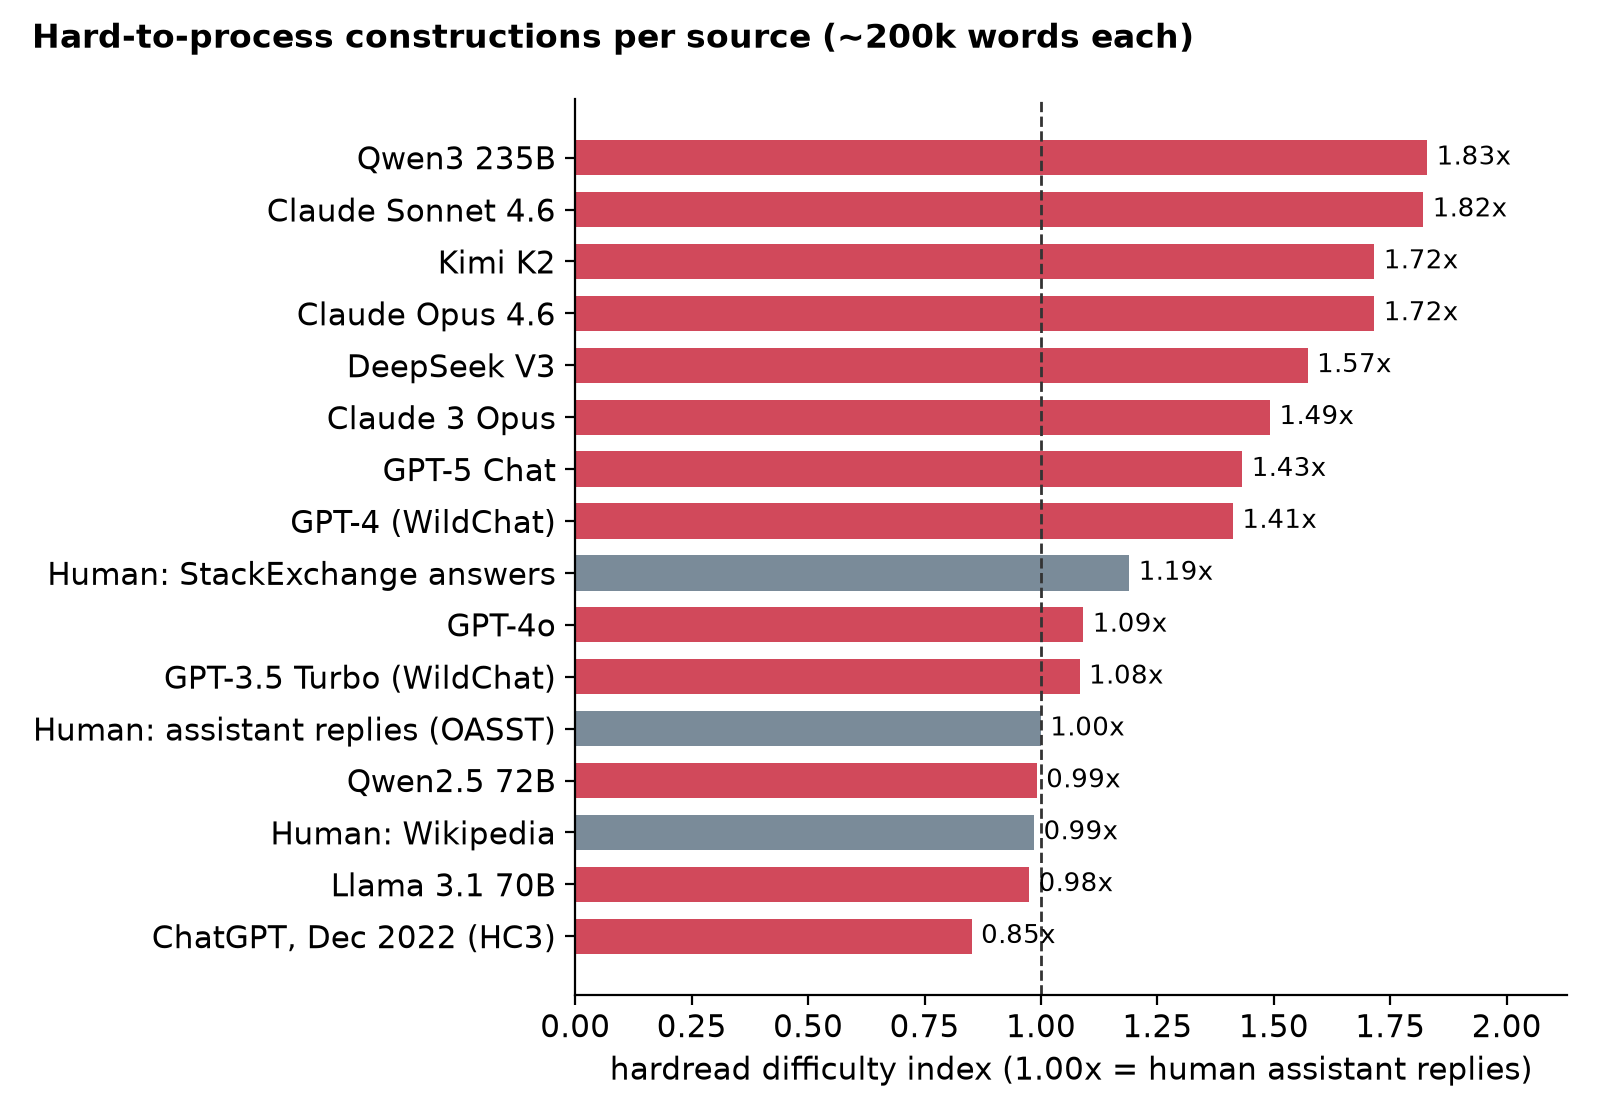
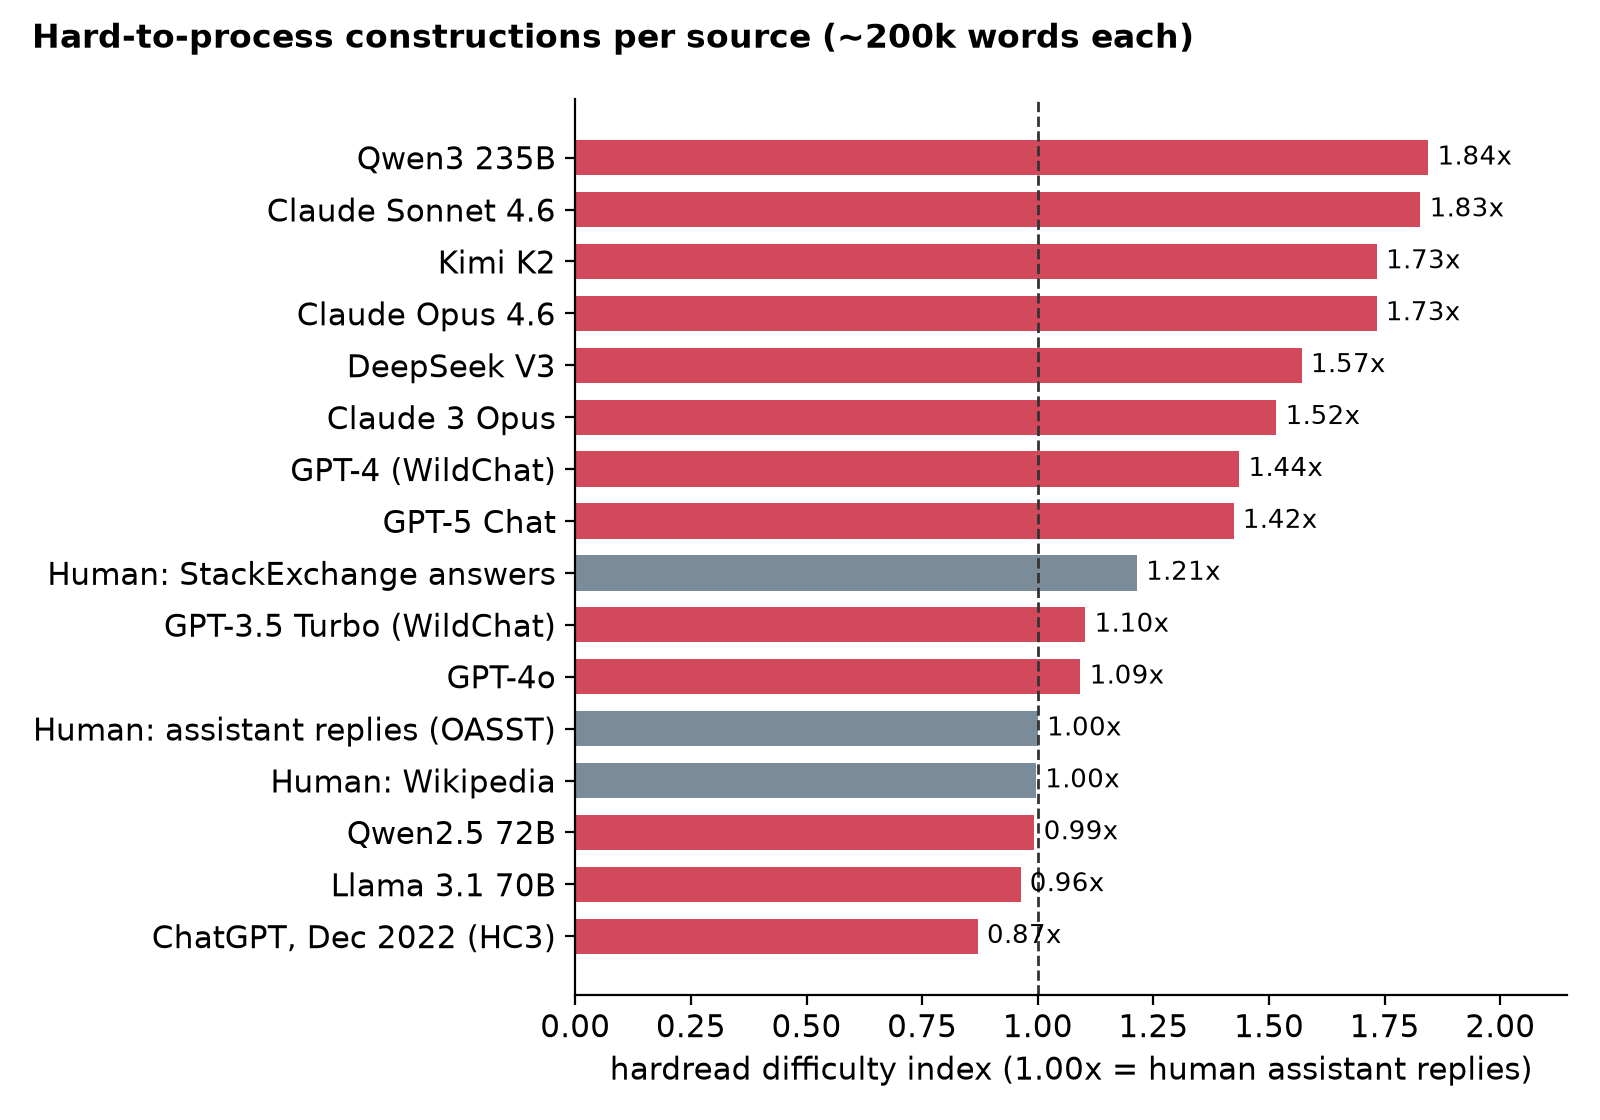
refresh benchmark to v5, patch launch film numbers and example, ignore render artifacts

diff --git a/src/hardread/features.py b/src/hardread/features.py
@@ -27,6 +27,8 @@ ADVERBIAL_HEADS = {"way", "reason", "time", "place", "day", "year", "moment", "e
 # Modifier or argument positions where a -ing/-ed "verb" is really a noun or adjective.
 NOMINAL_DEPS = {"amod", "compound", "nsubj", "nsubjpass", "dobj", "pobj", "nmod", "acomp", "attr", "appos"}
 
+CLAUSAL_DEPS = {"nsubj", "nsubjpass", "csubj", "dobj", "aux", "auxpass", "prt"}
+
 COUNT_FEATURES = ("inanimate_subject", "stacked_nouns", "reduced_orc", "overt_orc", "denominal_verb")
 
 
@@ -132,7 +134,10 @@ def object_relatives(sent: Span, res: Resources):
 
 def denominal_verbs(sent: Span, res: Resources):
     for tok in sent:
-        if tok.pos_ == "VERB" and tok.dep_ not in NOMINAL_DEPS and tok.lemma_.lower() in res.denominal:
+        if tok.pos_ != "VERB" or tok.dep_ in NOMINAL_DEPS or tok.lemma_.lower() not in res.denominal:
+            continue
+        # Nouns mis-tagged as verbs rarely get their own subject, object or auxiliary.
+        if any(c.dep_ in CLAUSAL_DEPS for c in tok.children):
             yield [tok]
 
 

diff --git a/docs/benchmark.md b/docs/benchmark.md
@@ -6,40 +6,40 @@ Each source is about 200k-570k words of English text, scored with `hardread` 0.1
 
 | source | words | index | Inanimate subj. | Unattested pairs | Dep. length | Stacked nouns | ORC, no 'that' | Denominal | ORC with 'that' |
 |---|---:|---:|---:|---:|---:|---:|---:|---:|---:|
-| Qwen3 235B | 205,747 | **1.83x** | 3.04x | 2.68x | 1.04x | 1.27x | 0.63x | 2.32x | 0.25x |
-| Claude Sonnet 4.6 | 218,063 | **1.82x** | 2.06x | 3.28x | 1.01x | 2.12x | 0.67x | 1.78x | 0.73x |
-| Kimi K2 | 193,788 | **1.72x** | 3.24x | 2.29x | 1.10x | 1.17x | 0.76x | 1.73x | 0.44x |
-| Claude Opus 4.6 | 188,813 | **1.72x** | 1.61x | 2.32x | 1.05x | 2.07x | 1.30x | 1.94x | 0.27x |
-| DeepSeek V3 | 195,370 | **1.57x** | 1.72x | 2.65x | 1.04x | 1.36x | 0.48x | 2.20x | 0.16x |
-| Claude 3 Opus | 245,335 | **1.49x** | 2.42x | 1.92x | 1.00x | 0.92x | 0.62x | 2.08x | 0.40x |
-| GPT-5 Chat | 212,098 | **1.43x** | 1.66x | 2.02x | 1.01x | 1.54x | 0.94x | 1.43x | 0.41x |
-| GPT-4 (WildChat) | 231,854 | **1.41x** | 2.10x | 1.88x | 1.00x | 1.15x | 0.80x | 1.54x | 0.75x |
-| Human: HC3 answers (ELI5, finance...) | 368,378 | **1.39x** | 2.48x | 1.30x | 1.04x | 0.73x | 1.56x | 1.21x | 1.31x |
-| Human: fiction (Gutenberg) | 205,414 | **1.38x** | 2.60x | 1.48x | 1.07x | 0.13x | 1.13x | 1.88x | 1.90x |
-| Gemini 2.0 Flash (HC3 Qs) | 256,818 | **1.24x** | 2.75x | 1.09x | 1.01x | 0.65x | 1.30x | 0.65x | 1.42x |
-| Human: StackExchange answers | 305,456 | **1.19x** | 1.60x | 1.39x | 1.05x | 0.57x | 1.22x | 1.32x | 1.56x |
-| Claude essays (Ghostbuster) | 456,986 | **1.13x** | 1.43x | 1.91x | 0.98x | 1.09x | 0.40x | 0.98x | 0.79x |
-| GPT-4o | 233,056 | **1.09x** | 0.90x | 1.60x | 1.01x | 0.98x | 1.01x | 1.04x | 0.28x |
-| GPT-3.5 Turbo (WildChat) | 243,080 | **1.08x** | 1.30x | 1.37x | 1.01x | 0.83x | 0.80x | 1.19x | 0.71x |
+| Qwen3 235B | 205,747 | **1.84x** | 3.04x | 2.68x | 1.04x | 1.27x | 0.63x | 2.41x | 0.25x |
+| Claude Sonnet 4.6 | 218,063 | **1.83x** | 2.06x | 3.28x | 1.01x | 2.12x | 0.67x | 1.82x | 0.73x |
+| Kimi K2 | 193,788 | **1.73x** | 3.24x | 2.29x | 1.10x | 1.17x | 0.76x | 1.83x | 0.44x |
+| Claude Opus 4.6 | 188,813 | **1.73x** | 1.61x | 2.32x | 1.05x | 2.07x | 1.30x | 2.04x | 0.27x |
+| DeepSeek V3 | 195,370 | **1.57x** | 1.72x | 2.65x | 1.04x | 1.36x | 0.48x | 2.18x | 0.16x |
+| Claude 3 Opus | 245,335 | **1.52x** | 2.42x | 1.92x | 1.00x | 0.92x | 0.62x | 2.22x | 0.40x |
+| GPT-4 (WildChat) | 231,854 | **1.44x** | 2.10x | 1.88x | 1.00x | 1.15x | 0.80x | 1.68x | 0.75x |
+| Human: HC3 answers (ELI5, finance...) | 368,378 | **1.43x** | 2.48x | 1.30x | 1.04x | 0.73x | 1.56x | 1.44x | 1.31x |
+| GPT-5 Chat | 212,098 | **1.42x** | 1.66x | 2.02x | 1.01x | 1.54x | 0.94x | 1.37x | 0.41x |
+| Human: fiction (Gutenberg) | 205,414 | **1.42x** | 2.60x | 1.48x | 1.07x | 0.13x | 1.13x | 2.11x | 1.90x |
+| Gemini 2.0 Flash (HC3 Qs) | 256,818 | **1.27x** | 2.75x | 1.09x | 1.01x | 0.65x | 1.30x | 0.80x | 1.42x |
+| Human: StackExchange answers | 305,456 | **1.21x** | 1.60x | 1.39x | 1.05x | 0.57x | 1.22x | 1.47x | 1.56x |
+| Claude essays (Ghostbuster) | 456,986 | **1.14x** | 1.43x | 1.91x | 0.98x | 1.09x | 0.40x | 1.03x | 0.79x |
+| GPT-3.5 Turbo (WildChat) | 243,080 | **1.10x** | 1.30x | 1.37x | 1.01x | 0.83x | 0.80x | 1.31x | 0.71x |
+| GPT-4o | 233,056 | **1.09x** | 0.90x | 1.60x | 1.01x | 0.98x | 1.01x | 1.05x | 0.28x |
+| ChatGPT essays (Ghostbuster) | 571,009 | **1.01x** | 1.33x | 1.33x | 0.97x | 1.25x | 0.45x | 0.71x | 0.58x |
 | Human: assistant replies (OASST) | 288,888 | **1.00x** | 1.00x | 1.00x | 1.00x | 1.00x | 1.00x | 1.00x | 1.00x |
-| ChatGPT essays (Ghostbuster) | 571,009 | **0.99x** | 1.33x | 1.33x | 0.97x | 1.25x | 0.45x | 0.63x | 0.58x |
-| Qwen2.5 72B | 228,423 | **0.99x** | 1.09x | 1.09x | 0.96x | 1.47x | 0.42x | 0.90x | 0.36x |
-| Human: Wikipedia | 304,725 | **0.99x** | 0.77x | 2.00x | 1.01x | 0.94x | 0.28x | 0.92x | 0.75x |
-| Human: essays | 97,686 | **0.98x** | 1.24x | 1.51x | 0.98x | 0.96x | 0.46x | 0.73x | 1.22x |
-| Llama 3.1 70B | 241,730 | **0.98x** | 1.00x | 1.19x | 0.99x | 1.06x | 0.70x | 0.90x | 0.56x |
-| ChatGPT, Dec 2022 (HC3) | 254,102 | **0.85x** | 0.86x | 0.75x | 0.98x | 0.74x | 1.05x | 0.73x | 2.33x |
+| Human: essays | 97,686 | **1.00x** | 1.24x | 1.51x | 0.98x | 0.96x | 0.46x | 0.84x | 1.22x |
+| Human: Wikipedia | 304,725 | **1.00x** | 0.77x | 2.00x | 1.01x | 0.94x | 0.28x | 0.98x | 0.75x |
+| Qwen2.5 72B | 228,423 | **0.99x** | 1.09x | 1.09x | 0.96x | 1.47x | 0.42x | 0.91x | 0.36x |
+| Llama 3.1 70B | 241,730 | **0.96x** | 1.00x | 1.19x | 0.99x | 1.06x | 0.70x | 0.83x | 0.56x |
+| ChatGPT, Dec 2022 (HC3) | 254,102 | **0.87x** | 0.86x | 0.75x | 0.98x | 0.74x | 1.05x | 0.84x | 2.33x |
 
 ## What stands out
 
-- Recent frontier chat models score 1.4x to 1.8x: Qwen3 235B 1.83x, Claude Sonnet 4.6 1.82x, Kimi K2 1.72x, Claude Opus 4.6 1.72x, DeepSeek V3 1.57x, GPT-5 Chat 1.43x.
-- Older or smaller models sit near human: ChatGPT from Dec 2022 0.85x, Llama 3.1 70B 0.98x, Qwen2.5 72B 0.99x, GPT-3.5 Turbo 1.08x.
+- Recent frontier chat models score 1.4x to 1.8x: Qwen3 235B 1.84x, Claude Sonnet 4.6 1.83x, Kimi K2 1.73x, Claude Opus 4.6 1.73x, DeepSeek V3 1.57x, GPT-5 Chat 1.42x.
+- Older or smaller models sit near human: ChatGPT from Dec 2022 0.87x, Llama 3.1 70B 0.96x, Qwen2.5 72B 0.99x, GPT-3.5 Turbo 1.10x.
 - Unattested word pairs (collocations absent from 10.6M words of human text) are the strongest signal: 1.9x to 3.3x for the frontier models.
 - Outside the HC3 question set, every model uses object relatives *with* "that" at 0.16x to 0.75x the human rate. This matches the paper's finding that models skip optional words. The two HC3 sets (ChatGPT 2022, Gemini 2.0 Flash) are the exception.
 
 ## Caveats
 
 - Prompts differ between sources. WildChat, LMSYS, Magpie and the distillation sets each have their own prompt mix, so some of the gap is topic, not style. Only two comparisons are prompt-matched: HC3 human vs ChatGPT (same questions) and the Ghostbuster essays (same prompts).
-- HC3's human answers (Reddit ELI5, finance and medical forums) score 1.39x, and fiction scores 1.38x. Human genres vary a lot, so choose a baseline that matches your text (`-b qa`, `-b wiki`, `-b essay`, `-b fiction`).
+- HC3's human answers (Reddit ELI5, finance and medical forums) score 1.43x, and fiction scores 1.42x. Human genres vary a lot, so choose a baseline that matches your text (`-b qa`, `-b wiki`, `-b essay`, `-b fiction`).
 - Model names come from the dataset cards and are not verified, especially for community distillation sets.
 - These are heuristic detectors, not the paper's classifier. See [method.md](method.md).
 

diff --git a/README.md b/README.md
@@ -1,6 +1,6 @@
 # hardread
 
-**Find the sentences that make AI prose hard to read.** hardread counts the constructions that a recent paper links to slower human reading, compares the counts with human writing, and points at the exact sentences. In our benchmark, recent frontier chat models score 1.4x to 1.8x the human assistant-reply baseline, while GPT-3.5, Llama 3.1 70B and 2022 ChatGPT score 0.85x to 1.08x.
+**Find the sentences that make AI prose hard to read.** hardread counts the constructions that a recent paper links to slower human reading, compares the counts with human writing, and points at the exact sentences. In our benchmark, recent frontier chat models score 1.4x to 1.8x the human assistant-reply baseline, while GPT-3.5, Llama 3.1 70B and 2022 ChatGPT score 0.87x to 1.10x.
 
 ![hardread output on 250 Claude Opus 4.6 replies](docs/hero.png)
 
@@ -43,9 +43,9 @@ Six features that psycholinguistics ties to slower reading, from Clark, Martin a
 | Object relatives without "that" | the papercut people feel |
 | Denominal verbs | **cushions** price spikes, **pooling** judgments |
 
-Each is reported per 1k words next to a bundled human baseline (`chat`, `qa`, `wiki`, `essay`, `fiction`). The difficulty index is the mean ratio, where 1.00x is human-like. Pick the baseline closest to your genre: human fiction scores 1.38x against `chat`.
+Each is reported per 1k words next to a bundled human baseline (`chat`, `qa`, `wiki`, `essay`, `fiction`). The difficulty index is the mean ratio, where 1.00x is human-like. Pick the baseline closest to your genre: human fiction scores 1.42x against `chat`.
 
-Flags are prompts to reread, not verdicts. A hand audit of the first rule set found 50% precision for inanimate subjects and 65-85% for the other features, and the rules were tightened after it. Unattested pairs penalize vocabulary the reference lacks, so heavy technical jargon scores high for that reason alone. Rules, audit and limits: [docs/method.md](docs/method.md).
+Flags are prompts to reread, not verdicts. In a hand audit, precision ranged from 57% (inanimate subjects) to 88% (object relatives without "that"). Unattested pairs penalize vocabulary the reference lacks, so heavy technical jargon scores high for that reason alone. Rules, audit and limits: [docs/method.md](docs/method.md).
 
 ## Benchmark
 

diff --git a/docs/method.md b/docs/method.md
@@ -36,9 +36,18 @@ The index is the mean of the six difficulty-feature ratios to the chosen baselin
 
 ## Accuracy and limits
 
-- A hand-judged sample of 40 flags per feature on model and human chat text gave these precisions for the first rule set: inanimate subjects 50%, stacked nouns 65%, reduced object relatives 85%, overt object relatives 68%, denominal verbs 70%. The current rules fix the most common false-positive patterns found in that audit. Treat single flags as prompts to reread, not verdicts.
+- Precision was hand-judged twice on random flags from model and human chat text (40 per feature unless noted):
+
+  | feature | first rules | after fixes |
+  |---|---|---|
+  | Inanimate subject + animate verb | 50% | 57.5% |
+  | Stacked nouns | 65% | 75% |
+  | Object relatives, no "that" | 85% | 87.5% |
+  | Object relatives with "that" | 68% | 73% (n=11) |
+  | Denominal verbs | 70% | 57.5% |
+
+  After the second audit the denominal rule was tightened again: the verb must have its own subject, object or auxiliary, which removes most nouns the tagger mislabels as verbs. The remaining errors are mostly parser errors from the small spaCy model: person nouns WordNet misses, adjectives tagged as nouns, stranded prepositions. Treat single flags as prompts to reread, not verdicts. `--model` takes any installed spaCy English pipeline, but the bundled baselines were computed with `en_core_web_sm`, so ratios are only like-for-like with that model.
 - Unattested pairs are measured against one mixed reference (10.6M words), while the paper builds a reference per setting (chat, code, essays). Text heavy in domain jargon or code identifiers scores high on this feature because the reference lacks the vocabulary, not because of style. Held-out Wikipedia scores 2.0x against the `chat` baseline for this reason.
-- Precision after the rule fixes has not been re-measured yet.
 - Rates under about 2,000 words are noisy. The CLI warns when that happens.
 - Comparisons across sources with different prompts mix up style with topic. For a clean comparison, run the same prompts through each model.
 - English only.
